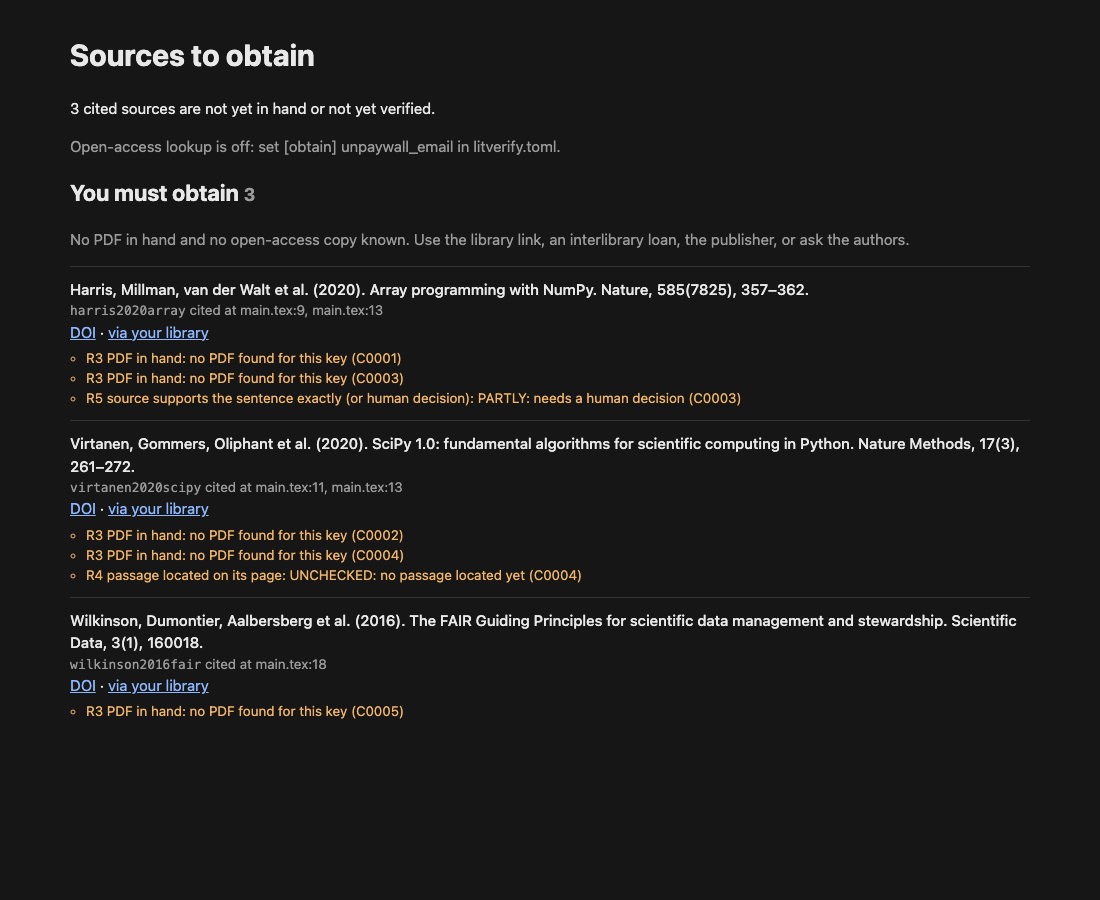
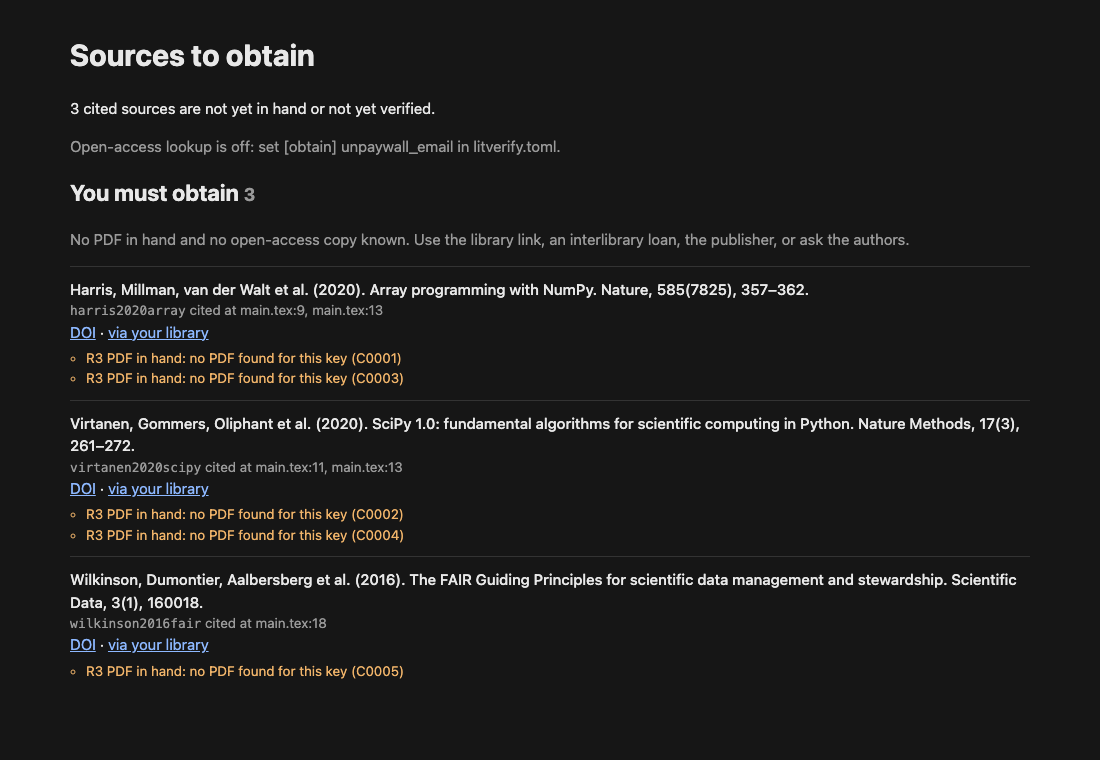
Example fully verified against the real PDFs (C0003 was wrongly PARTLY); README, example walkthrough, screenshots from the tool's own output

Changed region(s): [[0.0618, 0.3026, 0.9273, 0.9079], [0.0618, 0.0303, 0.8345, 0.2724]]

diff --git a/tests/test_ledger.py b/tests/test_ledger.py
@@ -37,11 +37,11 @@ def test_rewording_keeps_row_but_makes_it_stale(project: Path, pdfs: Path):
     assert main(["-C", str(project), "record", "C0001", "--verdict", "SUPPORTED", "--by", "t",
                  "--page", "357", "--excerpt", "the primary array programming library"]) == 0
     tex = project / "main.tex"
-    tex.write_text(tex.read_text().replace("the core array programming library",
-                                           "the primary array programming library"))
+    tex.write_text(tex.read_text().replace("the primary array programming library",
+                                           "the only array programming library"))
     main(["-C", str(project), "sync"])
     r = rows(project)["C0001"]
-    assert r["verdict"] == "SUPPORTED" and "primary" in r["sentence"]
+    assert r["verdict"] == "SUPPORTED" and "only" in r["sentence"]
     assert L.is_stale(r)
 
 
@@ -50,7 +50,7 @@ def test_rewrite_makes_new_row_and_marks_old_removed_then_revives(project: Path)
     tex = project / "main.tex"
     original = tex.read_text()
     tex.write_text(original.replace(
-        "NumPy is the core array programming library for Python",
+        "NumPy is the primary array programming library for Python",
         "Completely different wording about arrays in many languages and tools"))
     main(["-C", str(project), "sync"])
     r = rows(project)

diff --git a/examples/minimal/main.tex b/examples/minimal/main.tex
@@ -6,7 +6,7 @@
 
 \section{Scientific software}
 
-NumPy is the core array programming library for Python \parencite{harris2020array}.
+NumPy is the primary array programming library for Python \parencite{harris2020array}.
 SciPy collects fundamental algorithms for scientific computing in Python
 \parencite[see][]{virtanen2020scipy}.
 Both libraries are described in peer-reviewed articles

diff --git a/README.md b/README.md
@@ -1,1 +1,251 @@
 # literature-verifier
+
+**No hallucinated citations.** `literature-verifier` (CLI: `litverify`) checks a LaTeX
+manuscript until every citation in it meets three conditions:
+
+1. **The work is real.** The cited key resolves to a registry record (a DOI in Crossref or
+   DataCite), and the bibliography entry matches that record field by field.
+2. **The PDF is in hand.** A file of that work exists on your disk.
+3. **The passage is located.** Each citation occurrence is mapped to a passage in that PDF,
+   with the page as printed and a verbatim excerpt, and the passage supports exactly what
+   the sentence attributes to it.
+
+`litverify check` fails the build on any violation, naming the citation, its file and line,
+and the rule it breaks. A human makes the final call on every citation that is not fully
+supported, and can sign off every citation after seeing the passage on its page.
+
+## Why
+
+Citation errors are old: wrong page, wrong year, a claim the source does not make, a paper
+cited for what another paper said about it. Language models add a new failure: a reference
+that looks right and does not exist, or a real paper cited from memory for something it
+never says. Both pass a LaTeX build and most reviews. They are caught only by someone who
+opens the source and finds the sentence.
+
+This tool makes that check systematic and leaves a record of it: one ledger row per citation
+with the excerpt and page, versioned next to the manuscript.
+
+## The rules
+
+These are enforced by `litverify check` and repeated in every agent definition.
+
+| Rule | Requirement |
+|---|---|
+| R1 | The work is real: the key is in the bib and its DOI resolves in Crossref or DataCite. A work without a DOI (many books) passes only with a human decision naming the record that was checked. **Unresolved is fail.** |
+| R2 | The metadata matches: title, authors, year, venue, volume, issue, pages, DOI, type. Every mismatch is fixed in the reference manager or carries a human decision. |
+| R3 | The PDF is in hand. |
+| R4 | **No verdict without a located passage**: printed page, PDF page and verbatim excerpt, and the excerpt is found on that page of the PDF. `check` re-reads the PDF every time. |
+| R5 | The source supports exactly what the sentence says: SUPPORTED, or a human decision on PARTLY / WRONG_VERSION / NOT_FOUND / NO_ACCESS. **The human decides every PARTLY.** |
+| R6 | **A reworded sentence may only narrow the claim, never strengthen it.** Any sentence edited after it was checked must be verified again. |
+| R7 | The ledger lists every citation in the sources. |
+| R8 | The author has looked: a citation the author marked "disagree" in the review page always fails; `check --require-human` requires a current "agree" on every citation. |
+
+And one rule no program can enforce, so the agent definitions state it in every file:
+**no source from model memory.** An agent may not add, keep or "fix" a citation from what it
+remembers about a paper. R3 and R4 make that rule checkable: a citation passes only with the
+file in hand and the passage found in it.
+
+## Quickstart
+
+Requires Python 3.11+. Page images on the review page need poppler (`pdftoppm`,
+`pdftotext`; `brew install poppler`, `apt install poppler-utils`).
+
+```bash
+uv pip install "literature-verifier @ git+https://github.com/OWNER/literature-verifier"
+cd my-thesis
+cat > litverify.toml <<'EOF'
+tex = ["chapters/*.tex", "main.tex"]
+bib = "references.bib"
+pdf_dirs = ["pdfs"]
+EOF
+
+litverify sync      # ledger: one row per citation occurrence -> citations.csv
+litverify meta      # bib vs Crossref/DataCite -> metadata.csv
+litverify pdfs      # which cited works have a PDF
+litverify obtain    # what you still need, with DOI, open-access and library links
+litverify check     # fails, listing every citation and the rule it breaks
+```
+
+Verify a citation by recording the passage. The command refuses unless the excerpt is on
+that page of the PDF:
+
+```bash
+litverify locate --key harris2020array --excerpt "primary array programming library"
+litverify record C0001 --verdict SUPPORTED --by "me" --page 357 \
+    --excerpt "NumPy is the primary array programming library for the Python language"
+litverify record C0003 --verdict PARTLY --by "me" --page 357 --excerpt "..." \
+    --what-differs "the source says X for adults only"
+litverify decide C0003 "narrowed the sentence to adults"     # human only
+litverify review    # page to check every citation by eye; --import the answers
+litverify report    # report.md / report.html; --json for agents
+```
+
+![Report page](docs/img/report.png)
+
+Commit `citations.csv`, `metadata.csv` and `litverify.toml`. Never commit the PDFs.
+
+### In CI
+
+CI usually has no PDFs (copyright). `litverify check --ledger-only` trusts the PDF paths
+and located excerpts recorded in the committed ledger instead of re-reading the files. It
+still fails on everything else (missing rows, unchecked or stale citations, missing
+decisions, metadata). Run the full `litverify check` locally before you submit.
+
+## The ledger
+
+`citations.csv`, one row per citation occurrence (one key in one citation command):
+
+| Columns | Written by |
+|---|---|
+| `cid`, `key`, `file`, `line`, `command`, `prenote`, `postnote`, `sentence`, `anchor`, `pdf`, `status` | `sync`, from the .tex sources |
+| `page` (as printed), `pdf_page` (index), `excerpt`, `located` (`text` or `scan`), `verdict`, `what_differs`, `checked_sentence`, `checked_by`, `checked_at` | `record`, which refuses an unlocated passage |
+| `decision`, `decided_at`, `human_checked`, `human_note` | the human (`decide`, `review --import`) |
+
+Rows are anchored by a hash of the key and the citing sentence, not the line number, so
+edits elsewhere move a row without breaking it. A reworded sentence (similarity >= 0.75)
+keeps its row and becomes stale until re-verified; a rewritten one gets a new row. Rows
+whose citation disappears are kept as `removed` and revived if it returns. All the `\cite`
+variants of LaTeX, natbib and biblatex are recognised, including pre- and postnotes,
+multicite commands (`\cites[3]{a}[5]{b}`) and citations spanning lines; `\nocite` and
+comments are ignored.
+
+## The review page: seeing it with your own eyes
+
+`litverify review` writes `litverify-report/review/index.html`, one card per citation:
+your sentence with the citation marked, the excerpt with printed and PDF page, an image of
+that PDF page cropped to the passage with its words highlighted, the verdict and who gave
+it. You answer Agree, Disagree or Unsure, with a note. Answers stay in the browser until
+you export them; `litverify review --import review-decisions.json` writes them to the
+ledger. A sign-off lapses when the sentence, verdict, page or excerpt changes. The page
+works offline, without external assets, and follows the system light or dark setting;
+images are PNG files next to the HTML.
+
+This is the step no agent can do for you: reading the sentence you wrote beside the
+passage it rests on, and deciding that the meaning matches.
+
+![Review page](docs/img/review.png)
+
+## Getting the sources: `litverify obtain`
+
+`obtain.html` lists every cited source not yet in hand or not yet verified, grouped by who
+acts: **you must obtain** (no PDF, no free copy), **open-access copy found** (`obtain
+--download` saves direct PDF links), **in hand, verification open**. Each entry has the full
+reference, where it is cited, the DOI link, the open-access link and a link through your own
+library. Library links come from a template you set, for an OpenURL resolver, EZproxy,
+OpenAthens or a discovery search: see [docs/library-links.md](docs/library-links.md).
+Open-access lookup uses Unpaywall and runs only if you set your own contact e-mail.
+
+![Obtain page](docs/img/obtain.png)
+
+## Zotero and Better BibTeX
+
+The tool reads any BibTeX file, but it is built around Zotero with the Better BibTeX
+plugin, which avoids the usual failures of a hand-kept `.bib`:
+
+- **Stable citation keys.** Better BibTeX generates keys from a formula you set (author,
+  year, short title) and can pin them, so `\cite{harris2020array}` keeps working when the
+  item is edited.
+- **Auto-export.** Export a collection as Better BibTeX with "Keep updated", and the `.bib`
+  in your project is rewritten on every change in Zotero. You never edit the file by hand,
+  so there is one place to fix an entry.
+- **DOI-based import.** Adding an item by DOI (the magic wand, or the browser connector on
+  the publisher page) fills the fields from the registry record, which is what `meta`
+  compares against. Typing references by hand, or pasting them from a chatbot, is where
+  wrong authors and non-existent titles come from.
+- **PDF storage.** Zotero stores the PDF with the item. `litverify` finds it through
+  Zotero's local API (Zotero 7: Settings, Advanced, "Allow other applications on this
+  computer to communicate with Zotero"; then `[zotero] local_api = true` in
+  `litverify.toml`), or through the `file` field if you export it, or in a folder of
+  `<citekey>.pdf` files.
+- **The Zotero item is the single place to fix metadata.** When `meta` reports a FIX, correct
+  the item in Zotero; the auto-export carries it into the `.bib`; re-run `meta`.
+
+PDF lookup order: `pdf_dirs` (`<key>.pdf` or `Anything [<key>].pdf`), the bib `file` field,
+then Zotero's local API (stored files, linked files and links to `file://` URLs).
+
+## The agentic layer
+
+`.claude/` holds definitions for [Claude Code](https://claude.com/claude-code):
+
+- `agents/litverify-scout.md` finds the real record and a legal PDF for unresolved or
+  missing sources and reports Zotero corrections. It never edits the bib and never
+  substitutes a "similar" paper.
+- `agents/litverify-verifier.md` locates, in the PDF, the passage each assigned citation
+  rests on (rendering image-only pages and reading them as images) and records it with
+  `litverify record`, which refuses anything it cannot find on the page.
+- `agents/litverify-adversary.md` re-checks verdicts blind to the recorded excerpt, reads the
+  surrounding section for context, and reports disagreements. It never writes the ledger.
+- `skills/verify-citations/SKILL.md` runs the rounds: (0) state; (1) metadata and sources;
+  (2) independent context checks split across parallel verifiers, batched by source; (3)
+  adversarial re-check, with disagreements re-verified and the stricter verdict kept;
+  repeat until only human items remain; then the human review page and a decision on every
+  PARTLY. Done when `litverify check --require-human` passes.
+
+The CLI is the enforcement; the agents are labour. An agent cannot record a verdict the
+tool cannot locate, and the agent definitions forbid it to decide anything that belongs to
+the human. Parallel agents are safe: every write to the ledger is locked.
+
+Copy `.claude/` into your project to use them.
+
+## Case study: the book Claude could cite but nobody had read
+
+In the MSc thesis this tool was built for, an AI agent had cited Holmqvist et al. (2011),
+*Eye Tracking: A Comprehensive Guide to Methods and Measures* (Oxford University Press),
+three times. No copy of the book was available to anyone working on the thesis. The
+citations were from model memory: the book is a standard reference in the field, so the
+model "knew" what it covered.
+
+Verification flagged all three as NO_ACCESS: no PDF, no passage, so no verdict was
+possible. The author borrowed the book and scanned the cited chapter. The scan had no text
+layer, so the pages were read one by one as images and the passages transcribed
+(`record --scan`). Two citations were confirmed at their exact printed pages, in the
+section on areas of interest (pp. 206-217). The third cited the book for recording methods,
+calibration and event detection, which the scanned chapter does not contain; it was
+narrowed to a general pointer to the book, and the chapters that would be needed were
+flagged.
+
+Over the whole thesis, the audit covered hundreds of citations. Several dozen were found to
+support only part of their sentence, and were narrowed.
+
+## What it does not do
+
+- It does not judge meaning by itself. Whether a passage supports a sentence is decided by
+  a person or an agent; the tool enforces that the decision rests on a located passage and
+  that a human signs off what is not fully supported.
+- Sentence extraction from LaTeX is heuristic (paragraphs, sectioning, sentence-final
+  punctuation, common abbreviations). Unusual macros can make a ledger sentence too long
+  or too short; the citation is still tracked.
+- Text location needs a text layer. Image-only pages are recorded with `--scan` and are
+  not re-verified automatically; the review page shows the whole page image for them.
+  Excerpt matching ignores whitespace, case, punctuation and diacritics, and joins
+  hyphenated line breaks; text in figures, formulas or unusual encodings may not be found.
+- Metadata is compared with Crossref and DataCite only. Works without a DOI (many books,
+  theses, web pages) are reported as unresolved and need a human decision. URLs other than
+  doi.org links are not fetched.
+- Highlights on the review page need poppler. Without it, cards show text only.
+- Only BibTeX/biblatex citation commands in `.tex` files are scanned (no Markdown, Word or
+  Typst).
+- The Zotero local-API lookup was tested against mocked responses and, read-only, against
+  one Zotero 7 installation; other Zotero versions may differ.
+
+## Development
+
+```bash
+uv venv -p 3.11 && uv pip install -e ".[dev]"
+pytest
+ruff check src tests
+```
+
+Tests run on `examples/minimal` with all network calls mocked (Crossref fixtures are
+trimmed real records) and generated PDFs.
+
+## Credits and licence
+
+Developed by Jacob Hoffmann for his MSc thesis at the Technical University of Denmark
+(DTU), with Claude Code. MIT licence, see [LICENSE](LICENSE).
+
+The screenshots show this tool's own output on `examples/minimal`. The page crops in them
+are from open-access articles published under CC BY 4.0: Harris et al. (2020),
+*Array programming with NumPy*, Nature 585, doi:10.1038/s41586-020-2649-2; Virtanen et al.
+(2020), *SciPy 1.0*, Nature Methods 17, doi:10.1038/s41592-019-0686-2; Wilkinson et al.
+(2016), *The FAIR Guiding Principles*, Scientific Data 3, doi:10.1038/sdata.2016.18.

diff --git a/examples/minimal/README.md b/examples/minimal/README.md
@@ -1,0 +1,41 @@
+# Minimal example
+
+Three open-access articles, cited five times in `main.tex`. The ledger (`citations.csv`)
+and the metadata audit (`metadata.csv`) are committed fully verified: every citation has a
+printed page and a verbatim excerpt that `litverify` located in the PDF. The PDFs are not
+committed.
+
+```bash
+cd examples/minimal
+litverify check --ledger-only   # passes: trusts the recorded PDFs and excerpts
+litverify check                 # fails with R3 for every citation: no PDFs on your disk
+```
+
+Get the PDFs (all CC BY 4.0) and save them in `pdfs/` under their citation keys:
+
+| File | Article |
+|---|---|
+| `pdfs/harris2020array.pdf` | https://doi.org/10.1038/s41586-020-2649-2 |
+| `pdfs/virtanen2020scipy.pdf` | https://doi.org/10.1038/s41592-019-0686-2 |
+| `pdfs/wilkinson2016fair.pdf` | https://doi.org/10.1038/sdata.2016.18 |
+
+Or set `unpaywall_email` in `litverify.toml` and run `litverify obtain --download`.
+Then `litverify check` re-reads every excerpt in the PDFs and passes, and `litverify
+review` builds the page where you look at each passage on its page.
+
+## Things to try
+
+- Strengthen a sentence, e.g. "NumPy is the only array programming library for Python".
+  `litverify sync` keeps the row but marks it stale; `check` fails with R6 until the
+  citation is verified again, and the source will not support "only".
+- Tamper with an excerpt in `citations.csv`. `check` fails with R4: the excerpt is no
+  longer on the recorded page.
+- Change the year of an entry in `references.bib` and run `litverify meta`: FIX.
+
+## A lesson from building this example
+
+A first pass recorded C0003 ("Both libraries are described in peer-reviewed articles") as
+PARTLY, because the first page of the NumPy article does not mention peer review. The
+statement is on the last page (printed p. 362, "Peer review information"). A verdict rests
+on the whole source, read in context, not on the first page that comes up; that is what the
+adversarial round in `.claude/skills/verify-citations` is for.
